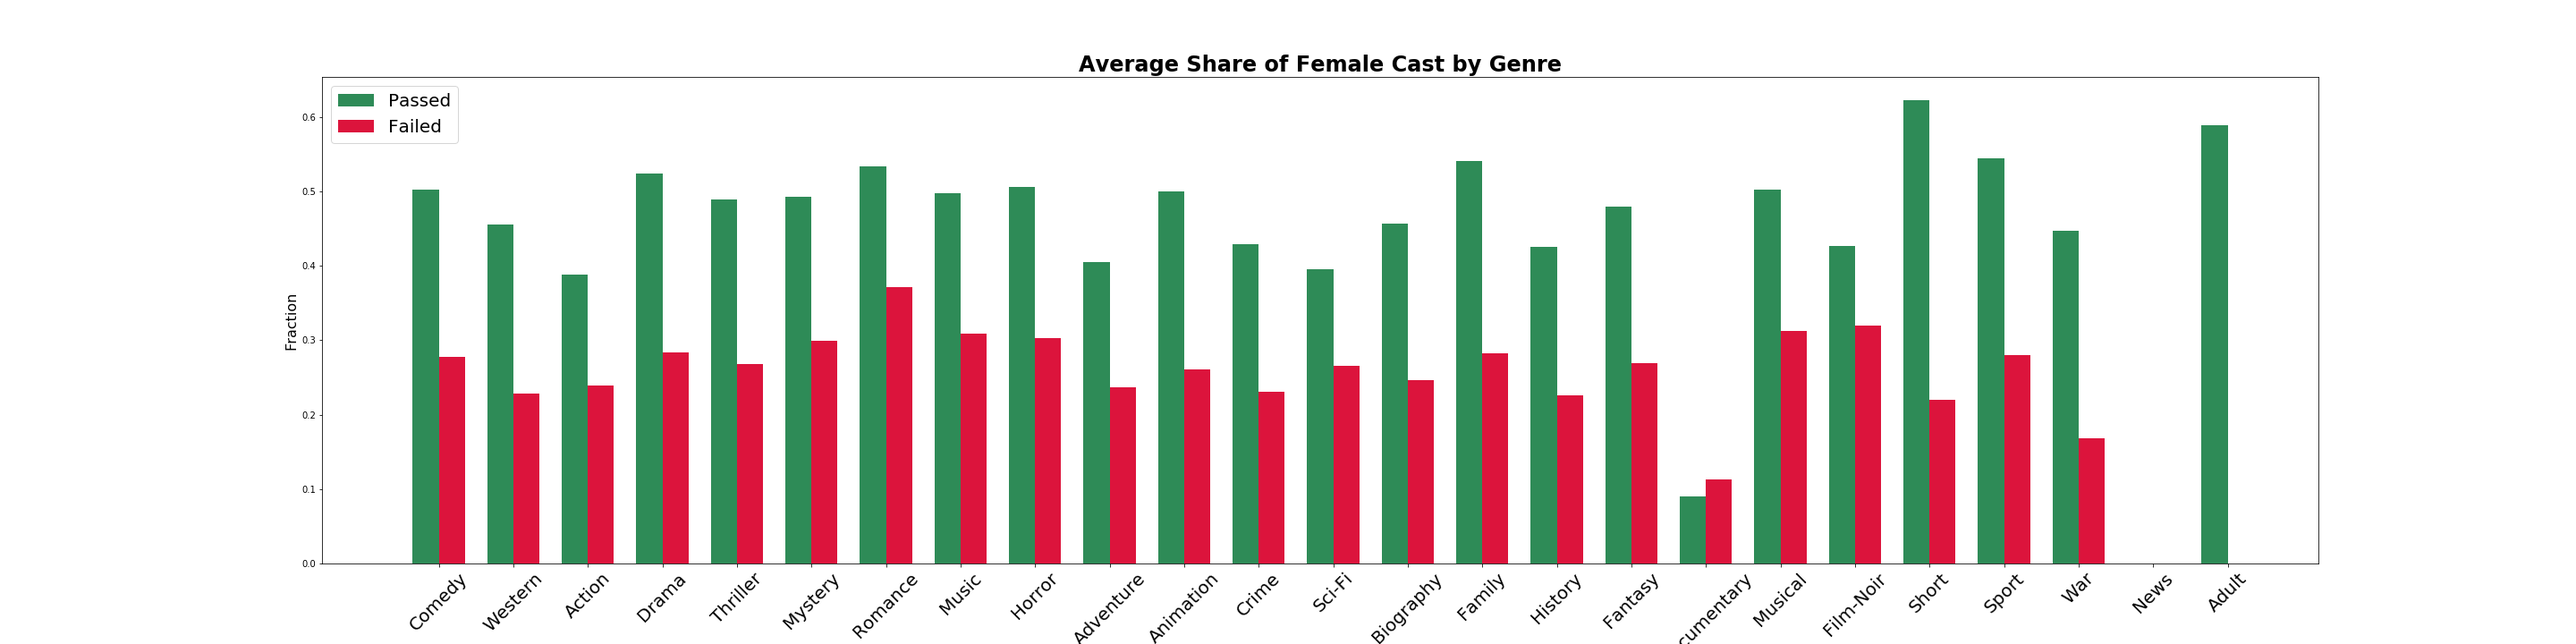
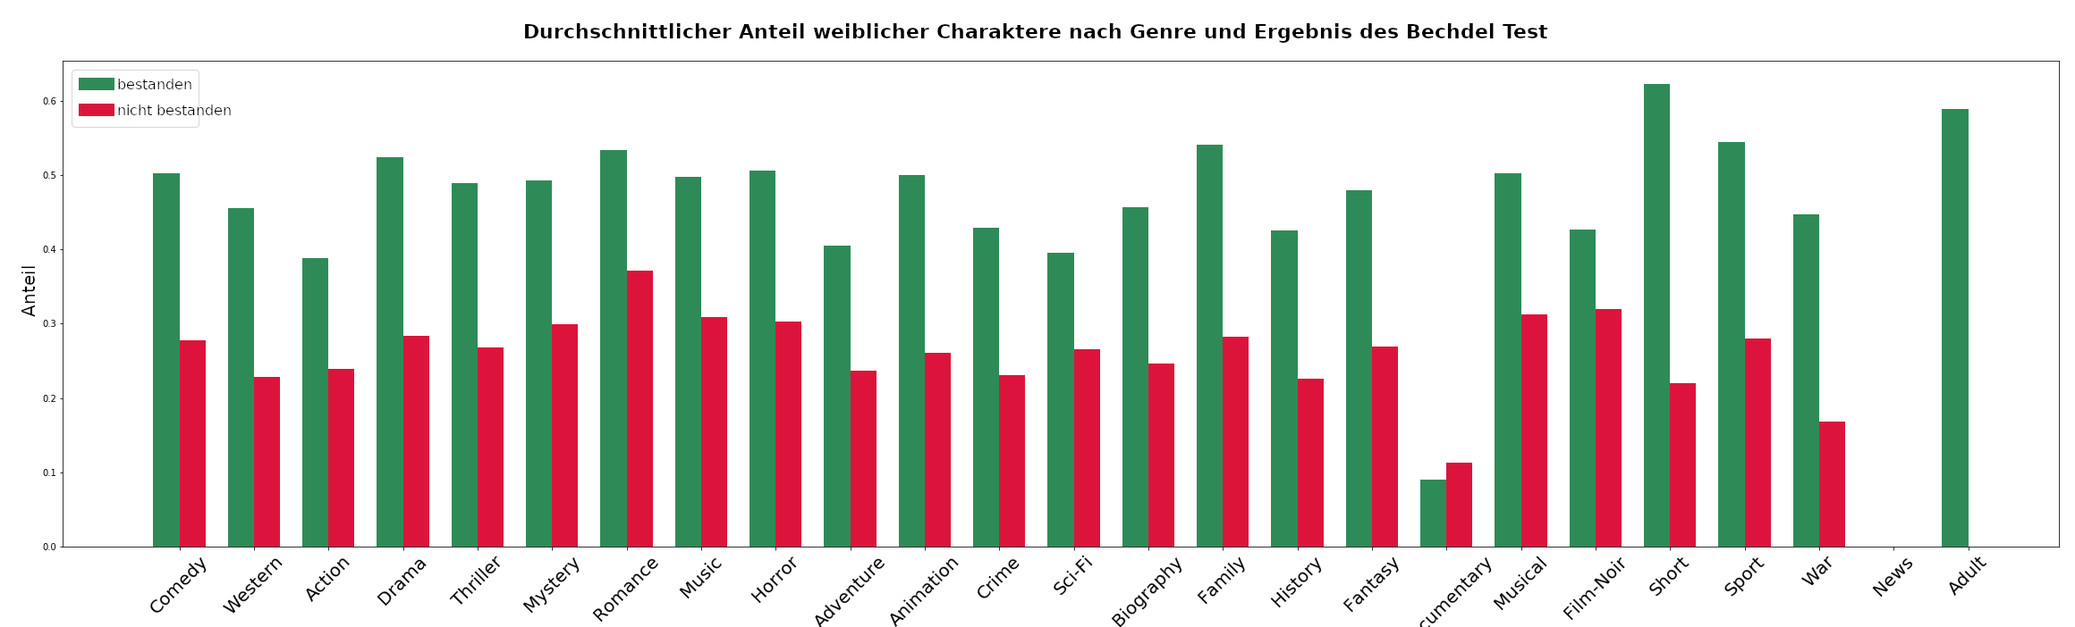
update graphs and add description

diff --git a/index.html b/index.html
@@ -4,6 +4,7 @@ title: Gender Bias in Filmen
 subtitle: Wir informieren über ungleiche Abbildung der Geschlechter in erfolgreichen Filmen.
 ---
 
-<p>Diese Seite ist eine erste, simple Beta-Version. Sie soll lediglich zeigen, wie die aus unserem Projekt hervorgehende Website einmal strukturiert sein soll und enthält bis auf wenige einfache statistische Analysen noch keinerlei Ergebnisse oder interaktiven Elemente.</p>
+<p>Diese Seite ist eine erste, simple Beta-Version. Sie soll lediglich zeigen, wie die aus unserem Projekt hervorgehende Website einmal strukturiert sein soll und enthält bis auf wenige einfache statistische Analysen noch keinerlei Ergebnisse oder interaktive Elemente.</p>
+
 
 <p><small>Anmerkung: Gender ist kein binäres Konzept, ausschließlich männlich und weiblich zu differenzieren entspricht nicht der Realität. Diese Tatsache spiegelt sich leider nicht in unseren Daten wider, weshalb unsere Analysen nur zwischen diesen beiden Kategorien entscheiden.</small></p>

diff --git a/uebersicht.md b/uebersicht.md
@@ -9,19 +9,22 @@ Es gibt bereits mehrere Maße und Indikatoren für Gender Bias in Filmen wie bei
 Unsere Analyse für einige wenige bereits verfügbare Filmdaten (ohne die Analyse der Untertitel oder Skripte) zeigt folgende Ergebnisse:
 
 ### Bechdel Test
-Der Bechdel Test gilt als bestanden, wenn in einem Film zwei namentlich benannte Frauen miteinander über etwas anderes als einen Mann reden. Für einige Filme ist das Ergebnis bereits online abrufbar. Die ersten zwei Abbildungen zeigen das Ergebnis des Bechdel Tests nach verschiedenen Kriterien. 
+Der Bechdel Test gilt als bestanden, wenn in einem Film zwei namentlich benannte Frauen miteinander über etwas anderes als einen Mann reden. Ein einfacher Test, der überraschend oft nicht bestanden wird. Für einige Filme ist das Ergebnis bereits online abrufbar. Die ersten zwei Abbildungen zeigen das Ergebnis des Bechdel Tests nach verschiedenen Kriterien, die dritte die Entwicklung über die letzten Jahrzehnte. Als alleiniges Kriterium ist der Bechdel Test aber nicht dazu geeignet, Gender Bias in Filmen zu beurteilen.
 
-**Diversität in der Filmcrew macht einen Unterschied** 
-![genres](images/crew_diversity.png)
 
 **Das Genre macht einen Unterschied**
 ![genres](images/cast_genre.png)
+Betrachtet man den relativen Unterschied von Filmen, die den Bechdel Test bestehen und solchen, die ihn nicht bestehen nach Genre, so zeigen sich einige Unterschiede. Sci-fi und Actionfilme bestehen den Bechdel Test zum Beispiel seltener als Dramen.
 
 **Die Dinge entwickeln sich zum Besseren**
 ![genres](images/temporal_all.png)
+Der allgemeine Trend über die letzten Jahrzehnte zeigt, dass immer mehr Filme den Bechdal Test bestehen. Einzelne Ausreißer sind dadurch bedingt, dass nur wenige Filme für diese Jahre verfügbar waren.
 
 ### Frauen sprechen deutlich weniger
 ![genres](images/character_ratio.png)
+Im Durchschnitt haben Frauen in Filmen deutlich weniger als die Hälfte des Redeanteils. Das Histogramm zeigt für 10%-Schritte der Redeanteile, wie viele Filme in dieser Kategorie liegen. Die häufigste Kategorie liegt bei ca. eineme Drittel der Sprechanteile von Frauen. Ebenfalls bemerkenswert sind die Randkategorien: In den Kategorien von 0 bis 20% liegen mehr Filme als in den Kategorien von 60 bis 100%.
 
+
+   
 
 Wir hoffen, dass diese Website als Ansprechadresse für verschiedene automatisch anwendbare Maße von Gender Bias auf einem großen Filmdatensatz dienen kann. Unsere detaillierte und leicht verständlich dargestellte Analyse soll Diskussionen über Diversität und Inklusion erleichtern und zugleich als Informationsquelle dienen.

diff --git a/methoden.md b/methoden.md
@@ -1,8 +1,8 @@
-Ein Teil der für den Prototype Fund beantragten Arbeitszeit wird in die Konzeptionierung und Implementierung verschiedener Indikatoren für Gender Bias in Filmen investiert. Diese werden hier genauer erläutert.
+Ein Teil der für den Prototype Fund beantragten Arbeitszeit wird in die Konzeptionierung und Implementierung verschiedener Indikatoren für Gender Bias in Filmen investiert. Diese sollen hier genauer erläutert werden.
 
 Dabei soll eine große Bandbreite an Aspekten abgedeckt werden: Neben eher offensichtlichen Indikatoren, wie beispielsweise der Anzahl männlicher und weiblicher Hauptcharaktere, sollen auch subtilere Formen von Gender Bias, zum Beispiel eine stereotypische Darstellung, erfasst werden. Die genaue Definition der Maße erfolgt im Rahmen der Projektdurchführung.
 
 Die detaillierte Beschreibung der Indikatoren auf dieser Seite soll zum einen beschreiben, welchen Aspekt von Gender Bias ein Indikator theoretisch erfassen kann aber auch erwähnt werden, wo seine Grenzen liegen. Zum anderen soll die technische Implementation knapp und auch für Laien verständlich erklärt werden. 
 
-Durch die Veröffentlichung unseres Codes über GitHub können die Maße außerdem für andere Projekte weiterverwendet und -entwickelt werden.
+Durch die Veröffentlichung unseres Codes über [GitHub](https://github.com/Indiiigo/movie_gender_bias) können die Maße außerdem für andere Projekte weiterverwendet und -entwickelt werden.
 
